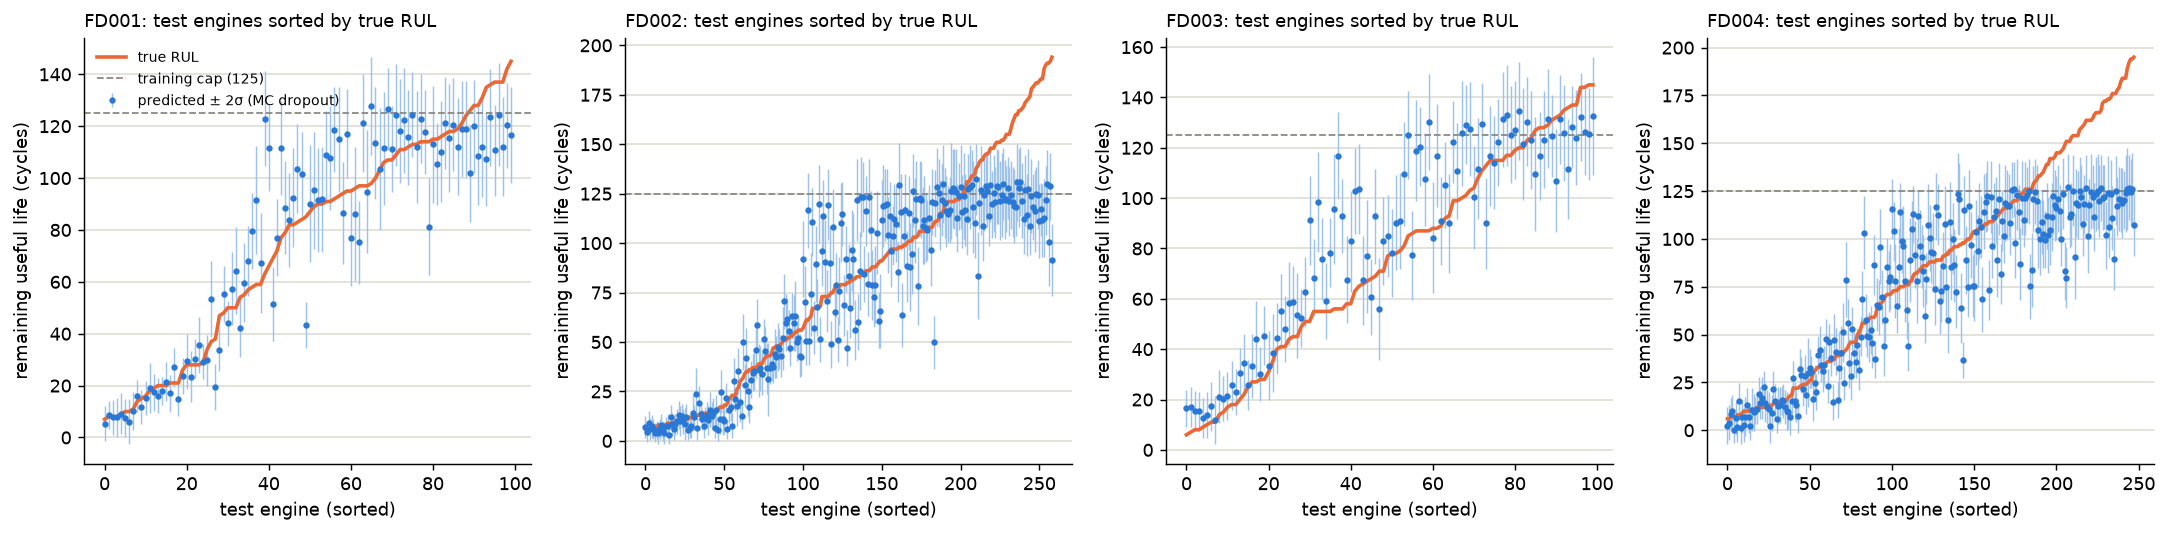
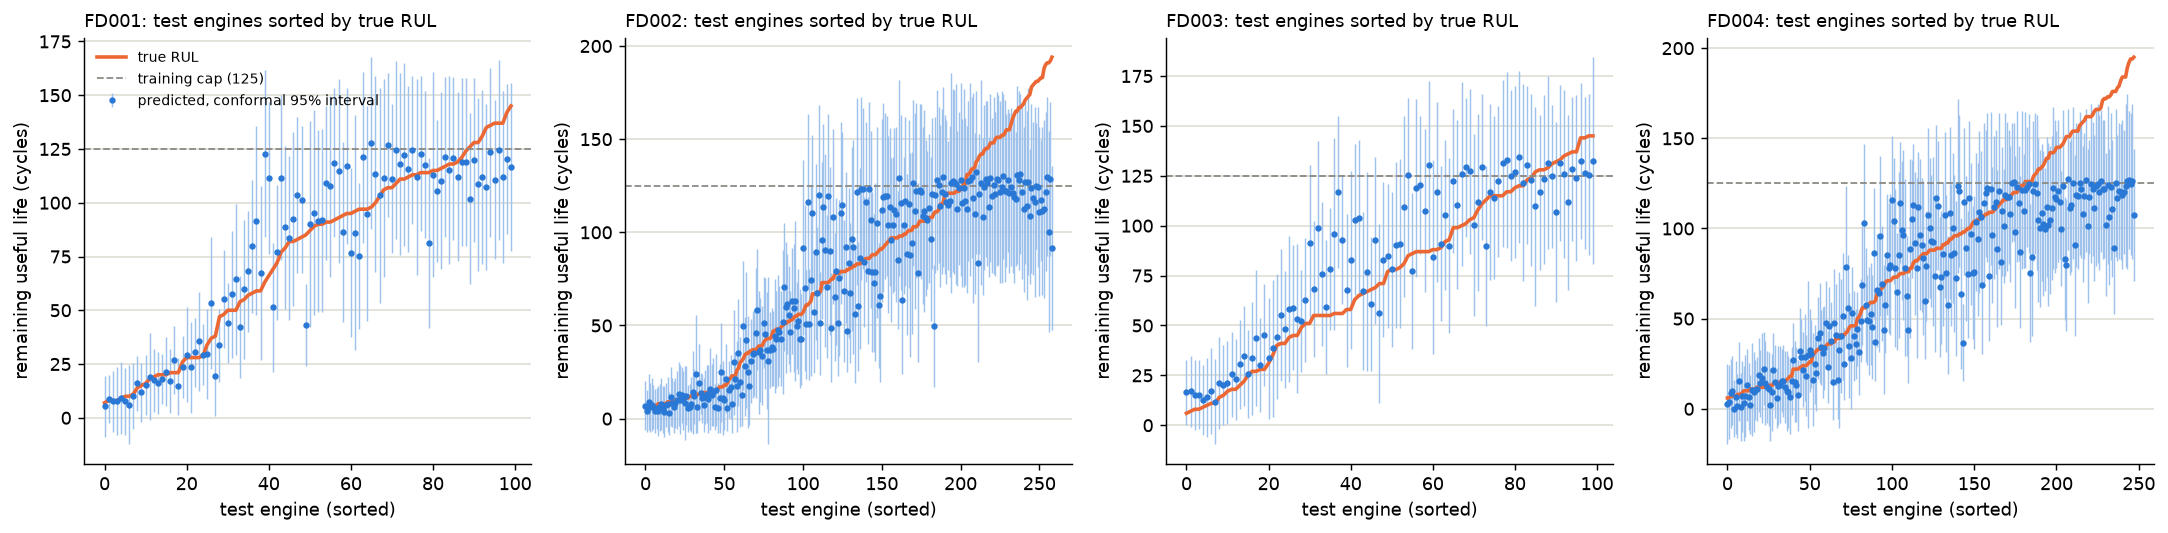
Report the calibrated intervals
The twelve 1e-3 runs were re-run at 17b0010 to add calibration. Every
prediction, MC std and score matched the earlier files exactly. Conformal 95%
intervals cover 91-97% of test engines against capped truth in every run, up
from 46-80% for raw ±2σ. The report adds an uncertainty section and a breakdown
by predicted remaining life, and the figure shows the calibrated intervals.

diff --git a/cmapss/report.py b/cmapss/report.py
@@ -97,18 +97,30 @@ def render(runs: dict[str, dict[float, list[dict]]]) -> str:
                   "validation engines rescales them: q is the conformal 95% quantile of |target − prediction| / std "
                   "over validation windows, and each test interval is prediction ± q·std. Validation targets are "
                   "capped at 125, so coverage of the capped truth is what the calibration aims at.", "",
-                  "| Subset | MC ±2σ coverage | Conformal scale q | Validation coverage | Test coverage (capped truth) "
+                  "| Subset | MC ±2σ coverage | Conformal scale q | Test coverage (capped truth) "
                   "| Test coverage (official truth) | Mean interval half-width |",
-                  "|---|---|---|---|---|---|---|"]
+                  "|---|---|---|---|---|---|"]
         for subset, results in calibrated.items():
             t = [r["test"] for r in results]
             lines.append(
                 f"| {subset} | {_ms([100 * x['mc_coverage_2sd'] for x in t], 0)}% "
                 f"| {_ms([r['calibration']['scale'] for r in results])} "
-                f"| {_ms([100 * r['calibration']['validation_coverage'] for r in results], 1)}% "
                 f"| {_ms([100 * x['conformal_coverage_capped_truth'] for x in t], 0)}% "
                 f"| {_ms([100 * x['conformal_coverage'] for x in t], 0)}% "
                 f"| {_ms([x['conformal_mean_halfwidth'] for x in t], 1)} cycles |")
+        lines += ["", "By the model's own prediction, all subsets and seeds pooled (each test engine counted once per seed):", "",
+                  "| Predicted remaining life | Engine predictions | Mean interval half-width | Coverage (capped truth) |",
+                  "|---|---|---|---|"]
+        for lo, hi, name in [(0, 30, "under 30 cycles"), (30, 100, "30 to 100 cycles"), (100, np.inf, "100 or more")]:
+            width, hit = [], []
+            for results in calibrated.values():
+                for r in results:
+                    true, pred, std = (np.asarray(r["per_engine"][k], float) for k in ("true", "pred", "mc_std"))
+                    half = r["calibration"]["scale"] * std
+                    band = (pred >= lo) & (pred < hi)
+                    width += list(half[band])
+                    hit += list(np.abs(np.minimum(true, RUL_CAP) - pred)[band] <= half[band])
+            lines.append(f"| {name} | {len(width)} | {np.mean(width):.1f} cycles | {100 * np.mean(hit):.0f}% |")
     lines += ["", "## Data and training (selected configuration)", "",
               "| Subset | Train / val / test engines | Test engines shorter than the window | Test engines above "
               "the cap | Train windows | Conditions | Features | Best epoch | Training time |",

diff --git a/README.md b/README.md
@@ -1,8 +1,8 @@
 # NASA C-MAPSS: remaining useful life with a CNN–LSTM–Transformer
 
 Predicts how many operating cycles a turbofan engine has left from its last 30 cycles of sensor readings, on NASA's
-C-MAPSS run-to-failure simulations. One model per subset, a validation split by engine, a linear baseline, three
-seeds, and every number below regenerated from saved run files.
+C-MAPSS run-to-failure simulations, with a calibrated 95% interval around each prediction. One model per subset, a
+validation split by engine, a linear baseline, three seeds, and every number below regenerated from saved run files.
 
 This is a rebuild of a course project. The original notebook spliced different engines together, leaked its
 validation split and reported a test score with no code behind it. [What the rebuild fixed](#what-the-rebuild-fixed)
@@ -35,17 +35,20 @@ What the numbers say:
   more than 125 cycles left (up to 195), and a model trained on capped targets tops out near 125 (its highest
   prediction is 134): the flat ceiling in the figure. Those engines also account for most of the PHM08 score on these
   two subsets.
-- **The uncertainty estimates are not calibrated.** Monte Carlo dropout ±2σ intervals contain the true value for
-  46–80% of test engines, depending on subset and seed, not the ~95% a calibrated interval would. Read them as
-  relative confidence, not as intervals.
+- **The 95% intervals hold on the test set once calibrated.** Raw Monte Carlo dropout ±2σ intervals contained the
+  true value for only 46–80% of test engines. Rescaled by split conformal calibration on the validation engines,
+  they cover 91–97% of test engines in every run, against the capped truth they were calibrated for. They are
+  narrowest where it matters: about ±15 cycles when the model predicts failure within 30 cycles, and about ±38 when
+  it predicts 100 or more. Against the official truth, coverage on FD002 and FD004 drops to 86% and 80%, because of
+  the engines above the cap.
 
 No comparison with published results is claimed: papers differ in window length, cap, normalisation and which test
 engines they score.
 
 ![Predicted vs true remaining life for every test engine](results/test_predictions.png)
 
-*Every official test engine, sorted by true remaining life. Seed 1 of the selected configuration; bars are ±2σ over
-50 dropout passes.*
+*Every official test engine, sorted by true remaining life. Seed 1 of the selected configuration; bars are the
+conformal 95% intervals.*
 
 ## What the rebuild fixed
 
@@ -71,9 +74,12 @@ engines they score.
   FD004 against official truth only; both are in the full results.
 - **Test scoring.** The last 30-cycle window of each official test engine, against the official remaining life and
   its capped variant.
-- **Uncertainty.** 50 forward passes with dropout left on.
-- **Reproducibility.** Seeds are fixed and TensorFlow op determinism is on. Re-running all twelve 1e-3 runs reproduced
-  every saved prediction exactly (same machine, CPU).
+- **Uncertainty.** 50 forward passes with dropout left on give each prediction a spread σ. Split conformal
+  calibration turns it into an interval: on every validation window, score |target − prediction| / σ; take the
+  conformal 95% quantile q; report prediction ± q·σ on test. The method was committed before any calibrated test
+  coverage was computed.
+- **Reproducibility.** Seeds are fixed and TensorFlow op determinism is on. The twelve 1e-3 runs have been run three
+  times (the third to add calibration), and every saved prediction matched exactly (same machine, CPU).
 
 ## Run it
 
@@ -97,7 +103,7 @@ CPU.
 ```
 cmapss/data.py      loading, engine keys, per-condition scaling, windows, engine split
 cmapss/model.py     the CNN–LSTM–Transformer and MC-dropout prediction
-cmapss/metrics.py   RMSE, MAE, PHM08 score, interval coverage
+cmapss/metrics.py   RMSE, MAE, PHM08 score, conformal scale, interval coverage
 cmapss/train.py     one subset and seed -> results/runs/*.json
 cmapss/report.py    results/runs -> results/RESULTS.md and the figure
 tests/              data handling, metrics, model, learning-rate selection
@@ -108,8 +114,11 @@ legacy/             the original notebook and slides
 
 - Predictions stay close to the 125-cycle cap, so engines with much longer remaining life are underestimated by
   construction of the target.
-- The uncertainty intervals are too narrow (see above). Calibrating them on the validation engines, for example with
-  conformal prediction, is the obvious next step and has not been done.
+- The 95% is a rate across engines, not a promise for each one. Windows from the same validation engine are
+  correlated, and the validation engines also chose the early-stopping epoch, so the guarantee is approximate; one
+  run of twelve came in at 91%.
+- The intervals are wide early in an engine's life (about ±38 cycles), so they say more near failure than far from
+  it.
 - Validation loss bottoms out early (best epoch 2–14 at the selected rate), and apart from the two learning rates
   there was no hyperparameter search.
 - Three seeds per configuration. On FD003 the spread between seeds (±1.9 cycles) is comparable to the gap to the

diff --git a/results/RESULTS.md b/results/RESULTS.md
@@ -24,13 +24,32 @@ One model per subset and seed, scored on each official test engine's last window
 | FD004, 0.001 (selected) | 3 | 15.91 ± 1.37 | 27.17 ± 0.75 | 30.48 ± 0.08 | 16.49 ± 0.38 | 19.54 ± 0.03 | 5236 ± 631 | 1715 ± 695 | 49 ± 4% |
 | FD004, 0.0001 | 3 | 16.87 ± 1.12 | 26.63 ± 0.33 | 30.48 ± 0.08 | 17.55 ± 1.51 | 19.54 ± 0.03 | 5258 ± 805 | 2805 ± 1219 | 55 ± 6% |
 
+## Uncertainty (selected configuration)
+
+Monte Carlo dropout spreads are too narrow on their own. Split conformal calibration on the validation engines rescales them: q is the conformal 95% quantile of |target − prediction| / std over validation windows, and each test interval is prediction ± q·std. Validation targets are capped at 125, so coverage of the capped truth is what the calibration aims at.
+
+| Subset | MC ±2σ coverage | Conformal scale q | Test coverage (capped truth) | Test coverage (official truth) | Mean interval half-width |
+|---|---|---|---|---|---|
+| FD001 | 75 ± 5% | 3.91 ± 0.36 | 96 ± 1% | 96 ± 1% | 30.8 ± 1.3 cycles |
+| FD002 | 61 ± 5% | 4.25 ± 0.58 | 95 ± 2% | 86 ± 2% | 31.0 ± 3.5 cycles |
+| FD003 | 69 ± 3% | 3.60 ± 0.74 | 94 ± 1% | 93 ± 1% | 28.1 ± 7.2 cycles |
+| FD004 | 49 ± 4% | 4.30 ± 0.54 | 94 ± 3% | 80 ± 4% | 31.5 ± 4.6 cycles |
+
+By the model's own prediction, all subsets and seeds pooled (each test engine counted once per seed):
+
+| Predicted remaining life | Engine predictions | Mean interval half-width | Coverage (capped truth) |
+|---|---|---|---|
+| under 30 cycles | 452 | 15.2 cycles | 97% |
+| 30 to 100 cycles | 732 | 31.2 cycles | 94% |
+| 100 or more | 937 | 37.9 cycles | 94% |
+
 ## Data and training (selected configuration)
 
 | Subset | Train / val / test engines | Test engines shorter than the window | Test engines above the cap | Train windows | Conditions | Features | Best epoch | Training time |
 |---|---|---|---|---|---|---|---|---|
 | FD001 | 80 / 20 / 100 | 0 | 11 | 14,210 | 1 | 15 | 5 ± 2 | 2 ± 1 min |
-| FD002 | 208 / 52 / 259 | 6 | 57 | 36,360 | 6 | 23 | 3 ± 1 | 6 ± 1 min |
-| FD003 | 80 / 20 / 100 | 0 | 15 | 17,687 | 1 | 16 | 8 ± 6 | 4 ± 2 min |
-| FD004 | 199 / 50 / 248 | 11 | 67 | 43,143 | 6 | 23 | 2 ± 1 | 6 ± 1 min |
+| FD002 | 208 / 52 / 259 | 6 | 57 | 36,360 | 6 | 23 | 3 ± 1 | 5 ± 1 min |
+| FD003 | 80 / 20 / 100 | 0 | 15 | 17,687 | 1 | 16 | 8 ± 6 | 2 ± 1 min |
+| FD004 | 199 / 50 / 248 | 11 | 67 | 43,143 | 6 | 23 | 2 ± 1 | 5 ± 0 min |
 
-Window 30 cycles, RUL cap 125, 20% of training engines held out for early stopping, batch 128, 50 MC-dropout passes. TensorFlow 2.21.0, Keras 3.15.1, Python 3.11.3, CPU. Runs produced by commit 2b6e3fb.
+Window 30 cycles, RUL cap 125, 20% of training engines held out for early stopping, batch 128, 50 MC-dropout passes. TensorFlow 2.21.0, Keras 3.15.1, Python 3.11.3, CPU. Runs produced by commit 17b0010, 2b6e3fb.
